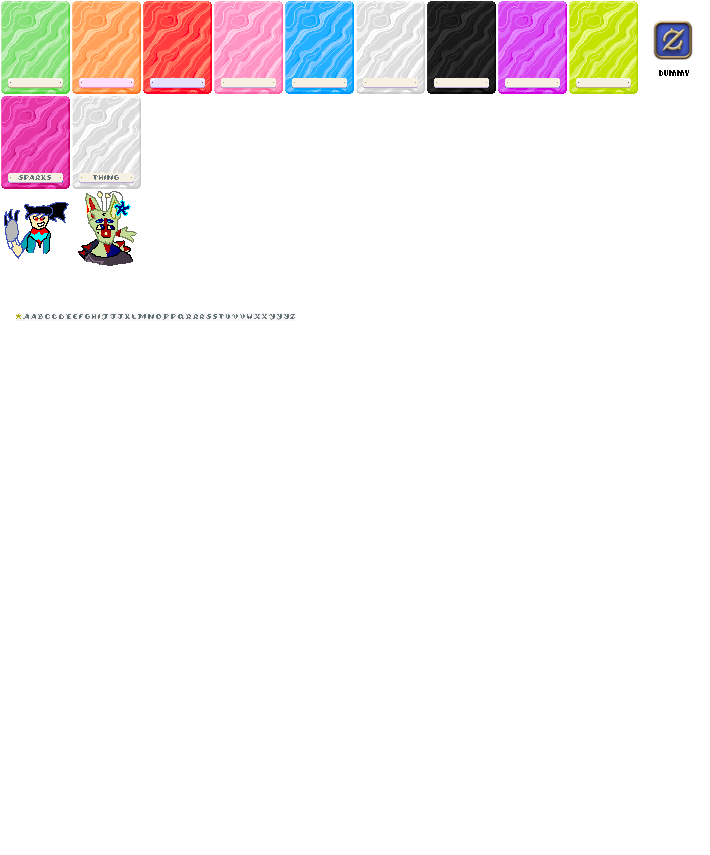
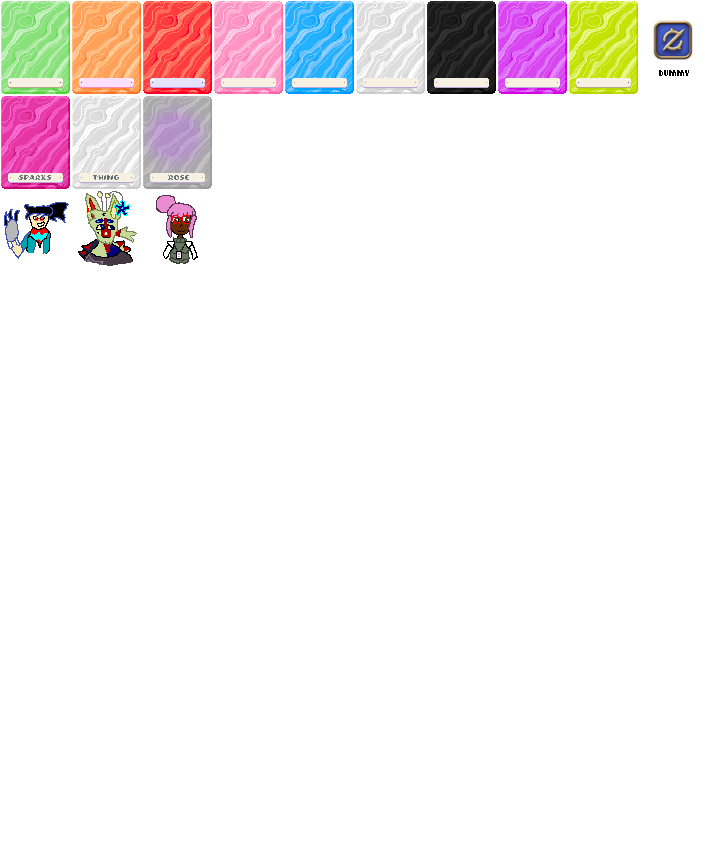
three.

Changed region(s): [[0.1859, 0.0912, 0.3099, 0.3041]]

diff --git a/CREDITS.md b/CREDITS.md
@@ -1,4 +1,5 @@
 <del>also a convenient reference for me when i submit the attack, because i will definitely forget</del>
 
+- [Rosé](https://artfight.net/character/4731699.rose-fleur)
 - [Sparks](https://artfight.net/character/10281494.looker-sparks-sheperd)
 - [Thing](https://artfight.net/character/7492531.thing)
